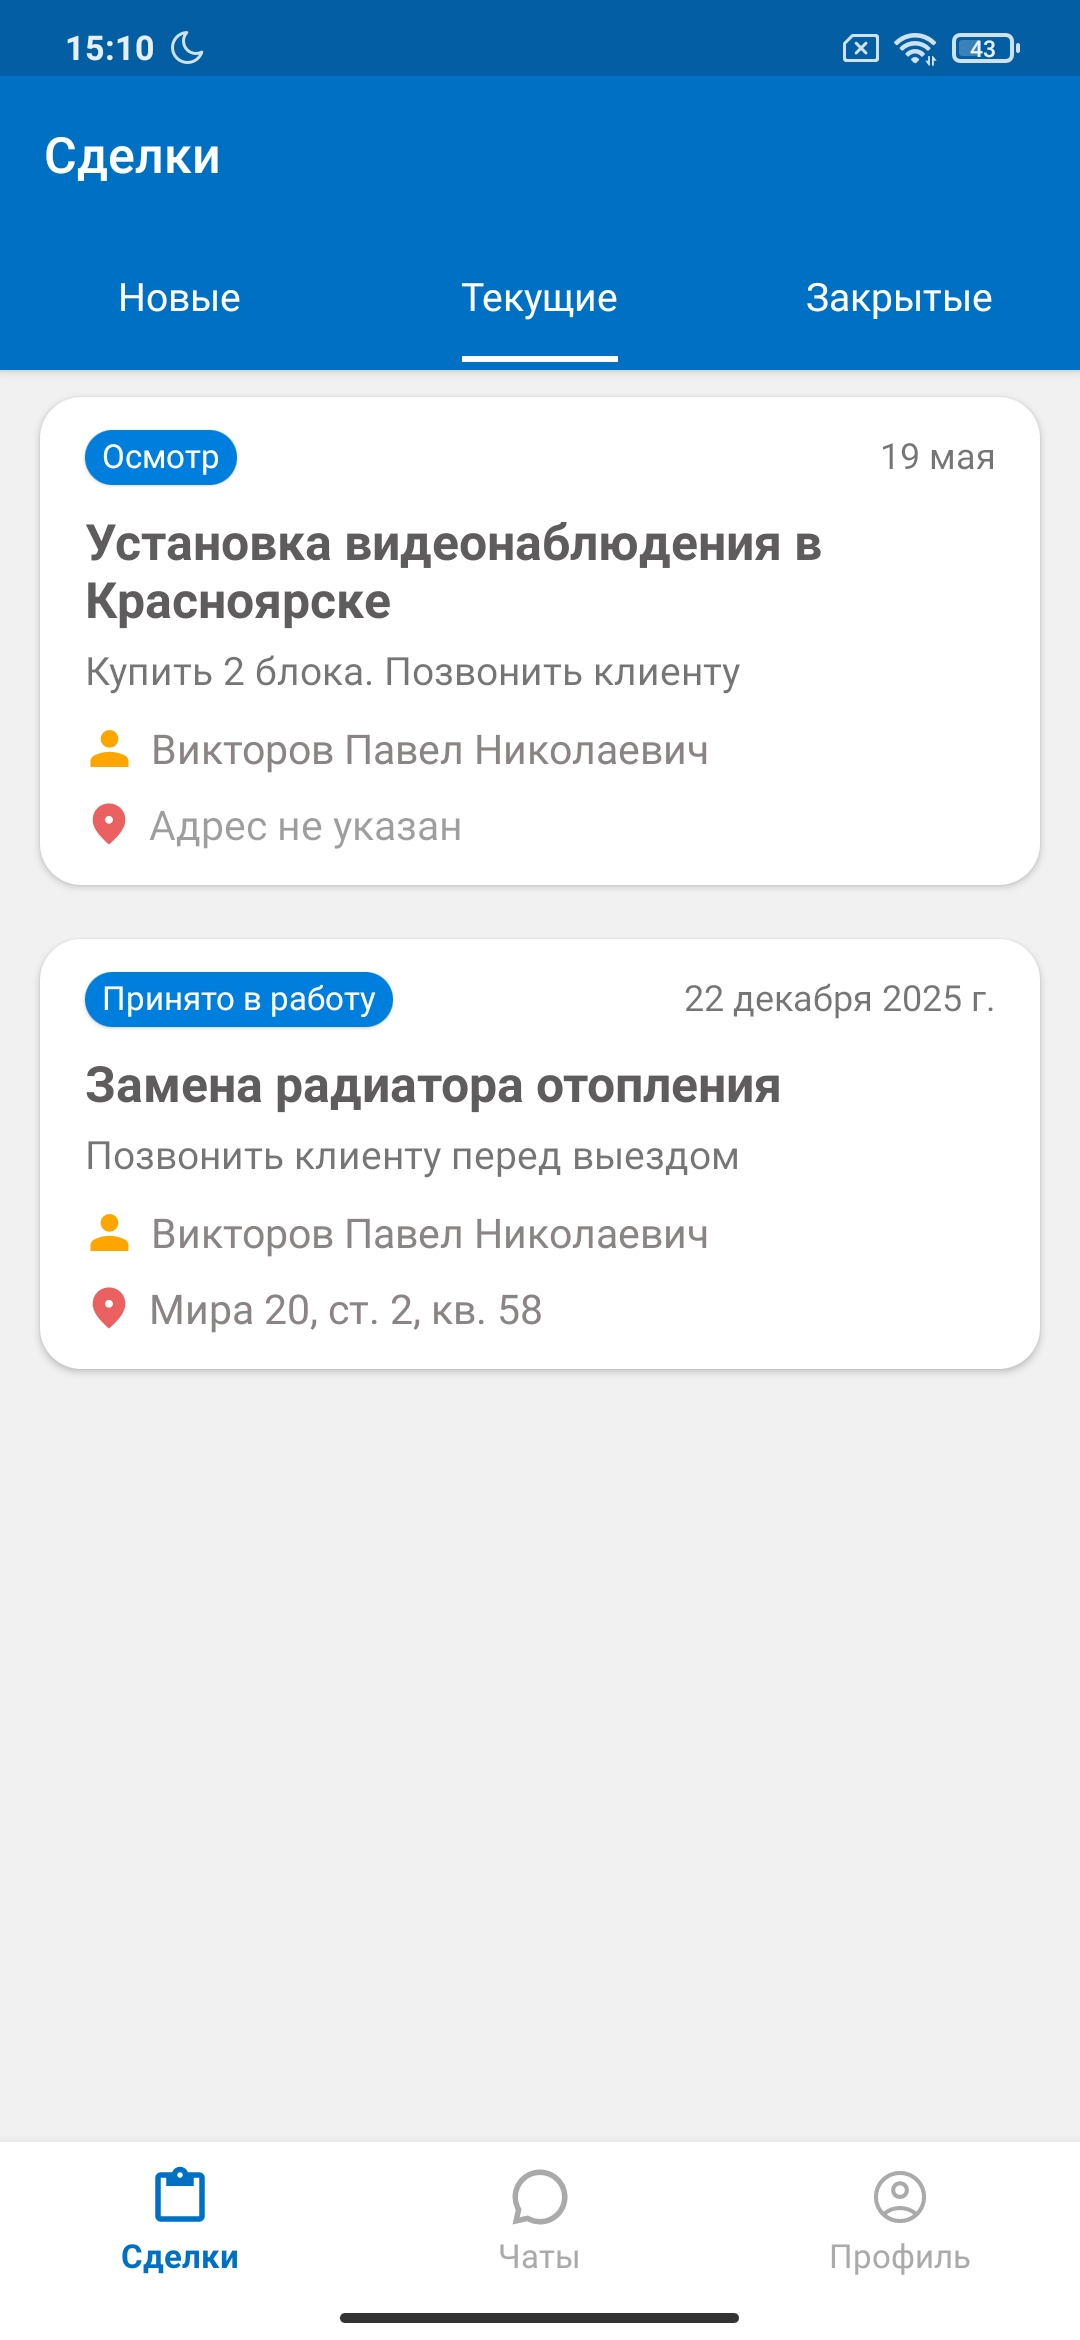
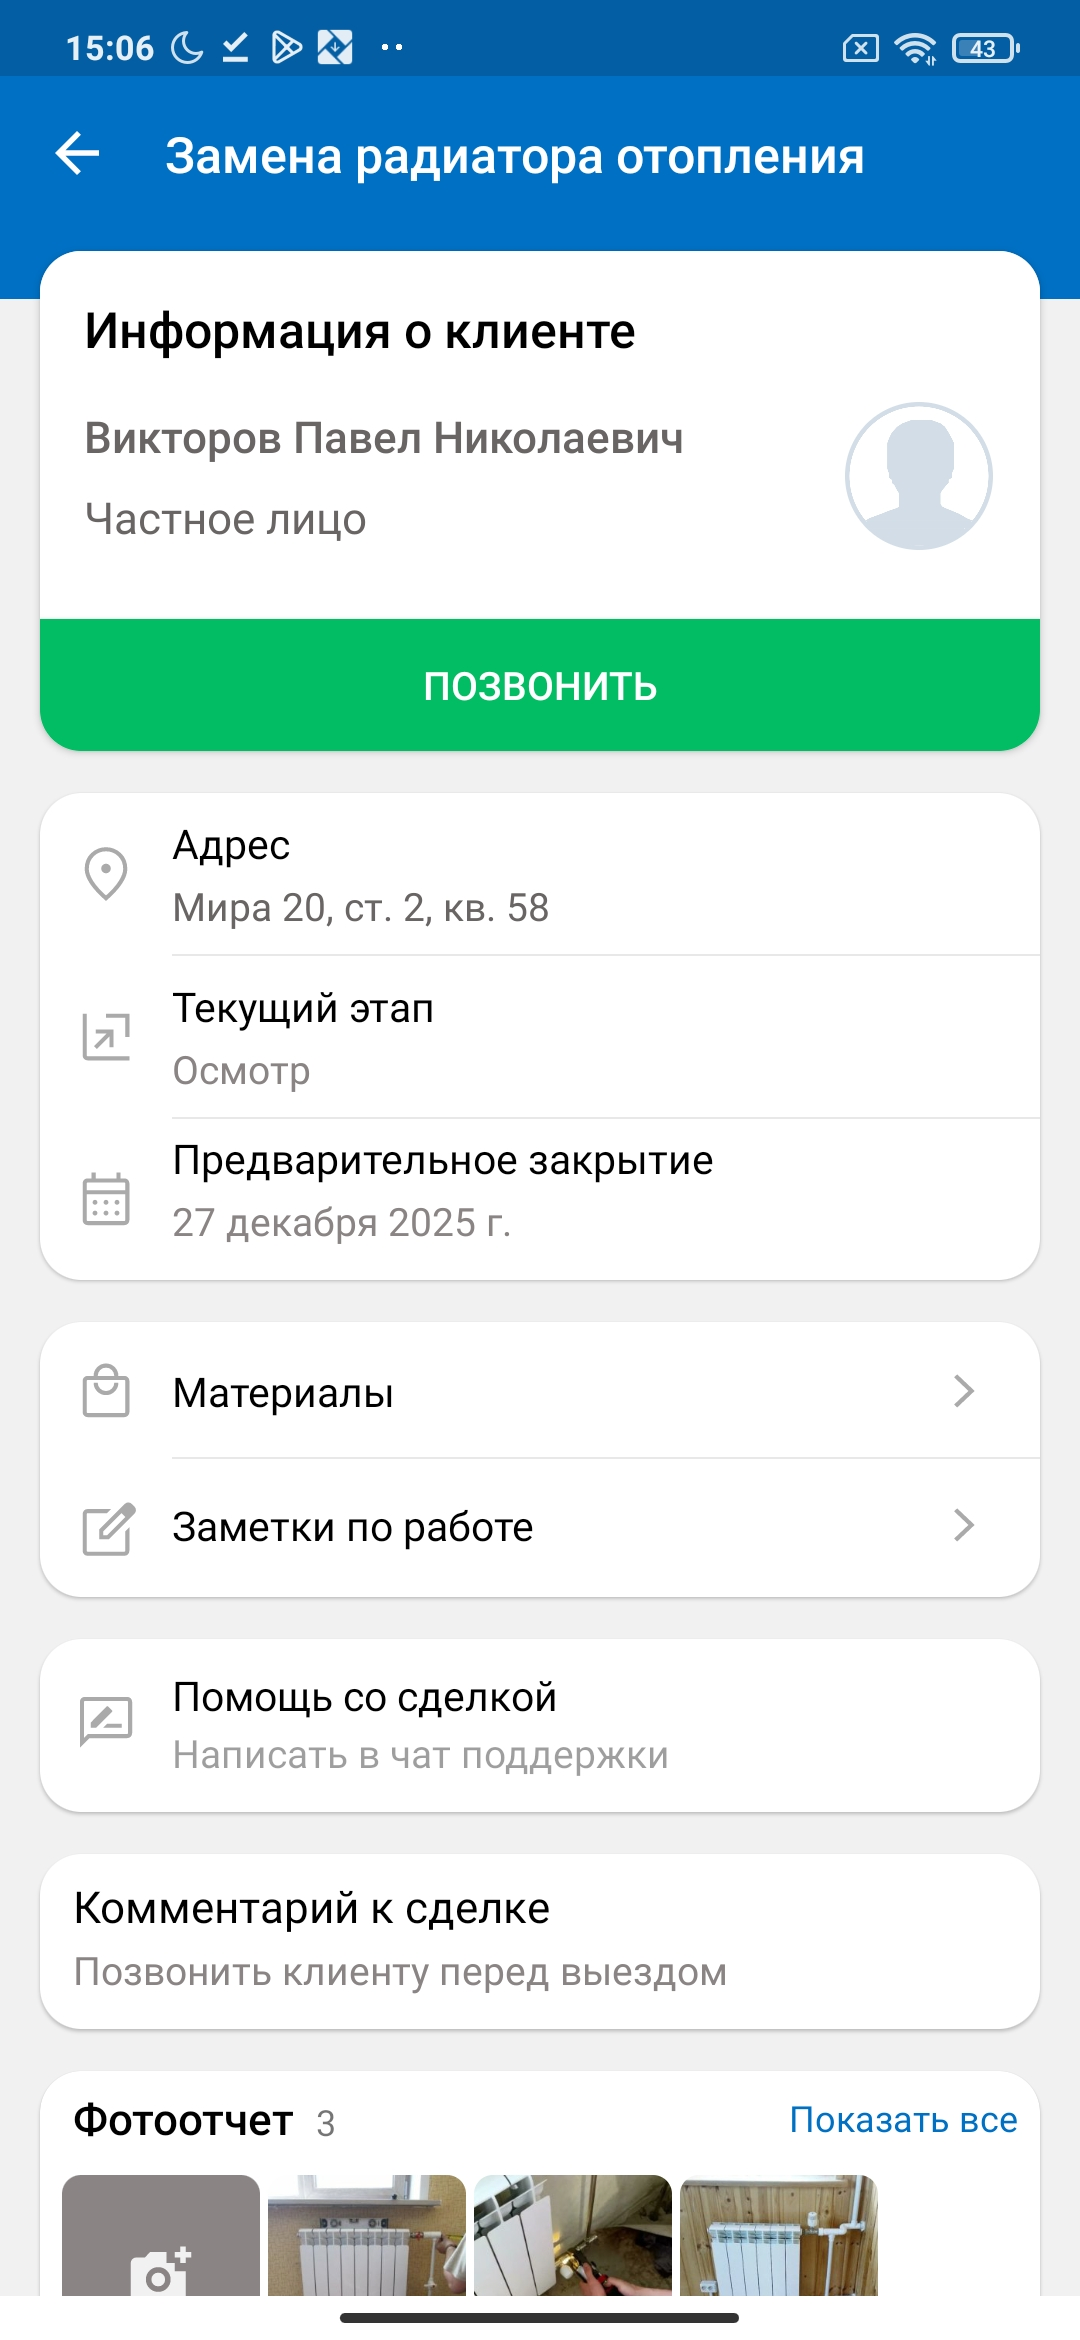
...

diff --git a/android/java/activity/SplashActivity.java b/android/java/activity/SplashActivity.java
@@ -1,0 +1,160 @@
+package com.example.bt;
+
+import android.annotation.SuppressLint;
+import android.content.Intent;
+import android.os.Build;
+import android.os.Bundle;
+import android.os.Handler;
+import android.view.View;
+import android.widget.LinearLayout;
+import android.widget.ProgressBar;
+
+import androidx.constraintlayout.widget.ConstraintLayout;
+import androidx.core.app.ActivityCompat;
+
+import com.example.bt.interfaces.SplashListener;
+import com.example.bt.model.UserAccount;
+import com.example.bt.modules.Async;
+import com.example.bt.modules.AppSettings;
+import com.example.bt.modules.Notification;
+import com.example.bt.request.Request;
+
+import java.io.BufferedInputStream;
+import java.io.FileOutputStream;
+import java.io.IOException;
+import java.net.URL;
+
+import static com.example.bt.modules.File.APP_URL;
+import static com.example.bt.modules.File.DOWNLOADS_PATH;
+import static com.example.bt.modules.File.createFolder;
+import static com.example.bt.modules.File.remove;
+import static com.example.bt.modules.RequestCodes.READ_AND_WRITE_PERMISSION_CODE;
+
+@SuppressLint("CustomSplashScreen")
+public class SplashActivity extends Activity implements SplashListener {
+
+    private ProgressBar progress_bar;
+    private LinearLayout get_update_layout;
+    private String update_file_path;
+    private AppSettings settings;
+
+    @Override
+    protected void onCreate(Bundle savedInstanceState) {
+
+        super.onCreate(null);
+        setContentView(R.layout.activity_splash);
+
+        progress_bar = findViewById(R.id.get_progressBar);
+        get_update_layout = findViewById(R.id.get_update_layout);
+        update_file_path = DOWNLOADS_PATH + "/bt.apk";
+        settings = new AppSettings(this);
+
+        new Handler().postDelayed(() -> {
+
+            String[] PERMISSIONS_STORAGE = getRights();
+
+            // Проверить наличие прав на запись/чтение
+            if (!isPermission(PERMISSIONS_STORAGE)) {
+
+                // Запросить права
+                ActivityCompat.requestPermissions(this, PERMISSIONS_STORAGE, READ_AND_WRITE_PERMISSION_CODE);
+            } else {
+
+                checkUpdate();
+            }
+        }, 100);
+    }
+
+    // Проверить наличие обновлений
+    private void checkUpdate() {
+
+        Request.checkUpdate(BuildConfig.VERSION_NAME, this, result -> {
+
+            Integer size = (Integer) result;
+
+            if (size > 0) {
+
+                get_update_layout.setVisibility(View.VISIBLE);
+                createFolder(DOWNLOADS_PATH);
+                loadAppUpdate(size);
+            }
+            else {
+                checkAppVersion();
+            }
+        });
+    }
+
+    // Загрузить обновление приложения
+    private void loadAppUpdate(int size) {
+
+        progress_bar.setMax(100);
+        progress_bar.setProgress(0);
+
+        Async.newThread(() -> {
+            try {
+
+                BufferedInputStream bis = new BufferedInputStream(APP_URL.openStream());
+                FileOutputStream fis = new FileOutputStream(update_file_path);
+
+                int count = 0;
+                int progress = 0;
+                int cur_count = 0;
+                int buffer_size = size / 100 + 1;
+                byte[] buffer = new byte[buffer_size];
+
+                while((count = bis.read(buffer,0, buffer_size)) != -1) {
+
+                    cur_count += count;
+
+                    if (cur_count >= buffer_size) {
+
+                        cur_count -= buffer_size;
+                        progress_bar.setProgress(++progress);
+                    }
+
+                    fis.write(buffer, 0, count);
+                }
+
+                fis.close();
+                bis.close();
+                runUpdateFile();
+
+            } catch (IOException e) {
+                e.printStackTrace();
+            }
+        });
+    }
+
+    private void checkAppVersion() {
+
+        // Если версия приложения изменилась
+        if (!settings.getString("app_version").equals(BuildConfig.VERSION_NAME)) {
+
+            remove(update_file_path);
+            settings.save("app_version", BuildConfig.VERSION_NAME);
+        }
+
+        start();
+    }
+
+    @Override
+    public void start() {
+
+        UserAccount account = accountViewModel.getAccountLive().getValue();
+
+        // Если нет учетной записи, то запустить авторизацию
+        if (account.getAccount() == null) {
+
+            startLoginActivity();
+            return;
+        }
+
+        Notification.remove(this, "general");
+        Intent intent = new Intent(this, MainActivity.class);
+        intent.putExtra("data", getIntent().getStringExtra("data"));
+        startActivity(intent);
+        finish();
+    }
+
+    // и другие методы
+}

diff --git a/android/java/db/PushData.java b/android/java/db/PushData.java
@@ -7,6 +7,7 @@ import androidx.room.PrimaryKey;
 
 @Entity(indices = { @Index(value = {"type", "data", "params"}, unique = true) })
 public class PushData {
+    
     @PrimaryKey
     private int id;
     private String type;
